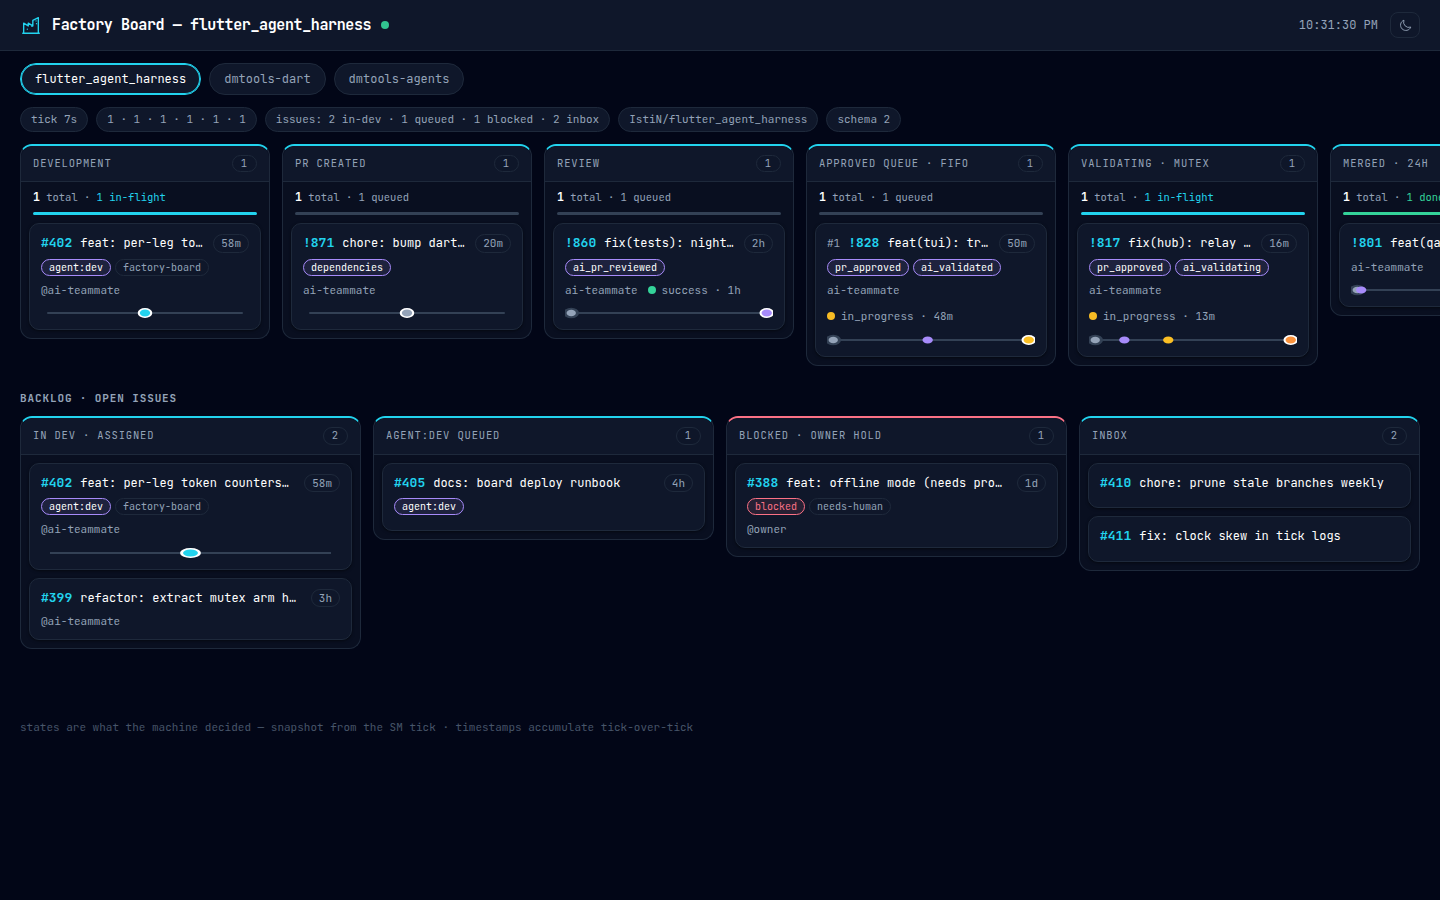
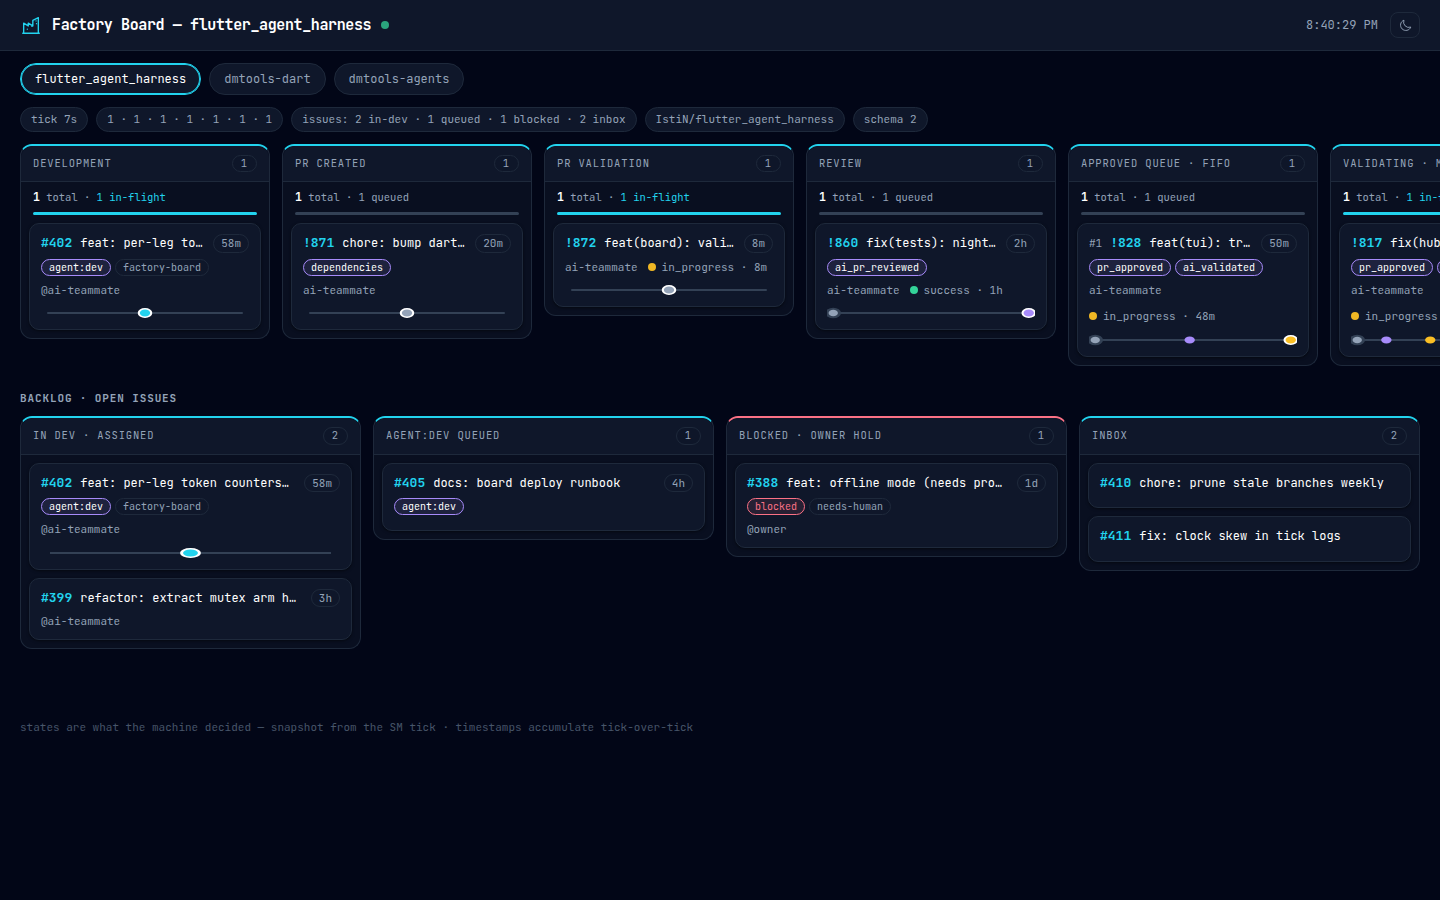
gh-716 WIP auto-save 2026-10-04T20-43-40

diff --git a/js/unit-tests/test_workingDir.js b/js/unit-tests/test_workingDir.js
@@ -14,6 +14,14 @@
 // each shard runs in its own engine).
 var commentMarkupModule = loadModule('js/common/commentMarkup.js');
 
+// Real tracker factory (provider probing is pure config/env reads) —
+// preCliDevelopmentSetup requires it for the dev-leg label assertion.
+var trackersModuleReal = loadModule(
+    'js/common/trackers.js',
+    makeRequire({ '../config.js': configModule }),
+    {}
+);
+
 /**
  * Load preCliDevelopmentSetup with controlled mocks.
  * Returns { module, calls } where calls accumulates every cli_execute_command invocation.
@@ -73,7 +81,8 @@ function loadPreCli(workingDir) {
             './fetchLinkedTestsToInput.js': { action: function() {} },
             './restoreFromReleases.js': { action: function() {} },
             './common/setupCommands.js': { runSetupCommands: function() { return { ran: 0, results: [] }; }, buildSetupWarningsMarkdown: function() { return null; } },
-            './common/baseBranchMarker.js': { writeBaseBranchMarker: function() {} }
+            './common/baseBranchMarker.js': { writeBaseBranchMarker: function() {} },
+            './common/trackers.js': trackersModuleReal
         }),
         {
             cli_execute_command: mockCli,
@@ -195,7 +204,8 @@ suite('preCliDevelopmentSetup > runCmd workingDir', function() {
                 './fetchLinkedTestsToInput.js': { action: function() {} },
                 './restoreFromReleases.js': { action: function() {} },
                 './common/setupCommands.js': { runSetupCommands: function() { return { ran: 0, results: [] }; }, buildSetupWarningsMarkdown: function() { return null; } },
-                './common/baseBranchMarker.js': { writeBaseBranchMarker: function() {} }
+                './common/baseBranchMarker.js': { writeBaseBranchMarker: function() {} },
+            './common/trackers.js': trackersModuleReal
             ,
             './common/commentMarkup.js': commentMarkupModule,
         }),
@@ -273,7 +283,8 @@ suite('preCliDevelopmentSetup > runCmd workingDir', function() {
                 './fetchLinkedTestsToInput.js': { action: function() {} },
                 './restoreFromReleases.js': { action: function() {} },
                 './common/setupCommands.js': { runSetupCommands: function() { return { ran: 0, results: [] }; }, buildSetupWarningsMarkdown: function() { return null; } },
-                './common/baseBranchMarker.js': { writeBaseBranchMarker: function() {} }
+                './common/baseBranchMarker.js': { writeBaseBranchMarker: function() {} },
+            './common/trackers.js': trackersModuleReal
             ,
             './common/commentMarkup.js': commentMarkupModule,
         }),
@@ -355,7 +366,8 @@ suite('preCliDevelopmentSetup > runCmd workingDir', function() {
                 './fetchLinkedTestsToInput.js': { action: function() {} },
                 './restoreFromReleases.js': { action: function() {} },
                 './common/setupCommands.js': { runSetupCommands: function() { return { ran: 0, results: [] }; }, buildSetupWarningsMarkdown: function() { return null; } },
-                './common/baseBranchMarker.js': { writeBaseBranchMarker: function() {} }
+                './common/baseBranchMarker.js': { writeBaseBranchMarker: function() {} },
+            './common/trackers.js': trackersModuleReal
             ,
             './common/commentMarkup.js': commentMarkupModule,
         }),

diff --git a/site/factory/app.js b/site/factory/app.js
@@ -77,7 +77,10 @@
   ];
 
   // lane → the timestamp that ENTERED it (schema 2; mirrors
-  // js/factoryState.js LANE_ENTERED_AT — kept in sync deliberately)
+  // js/factoryState.js LANE_ENTERED_AT — kept in sync deliberately).
+  // pr_validation is intentionally ABSENT there (derived from an in-flight
+  // CI run, not a label) — cardHtml ages those cards from their newest
+  // history entry, exactly like the backlog columns.
   var LANE_ENTERED_AT = {
     development: 'devStartedAt',
     pr_created: 'prCreated',
@@ -160,14 +163,16 @@
 
   // ── lane summary (v3): readable "how much is left" per lane ────────────────
   // done = merged (terminal); in-flight = actively worked right now
-  // (dev leg running, mutex validating); queued = waiting on the next
-  // machine step; blocked = owner hold — wins over everything.
+  // (dev leg running, head validation running, mutex validating); queued =
+  // waiting on the next machine step; blocked = owner hold — wins over
+  // everything.
   function laneSummary(laneId, list) {
     var s = { total: list.length, done: 0, inflight: 0, queued: 0, blocked: 0 };
     list.forEach(function (c) {
       if (hasBlocked(c)) s.blocked++;
       else if (c.mergedAt) s.done++;
-      else if (laneId === 'validating' || laneId === 'development') s.inflight++;
+      else if (laneId === 'validating' || laneId === 'development' ||
+               laneId === 'pr_validation') s.inflight++;
       else s.queued++;
     });
     return s;

diff --git a/site/factory/config.js b/site/factory/config.js
@@ -47,9 +47,12 @@ window.FACTORY_BOARD_CONFIG = {
   // Lane rendering order + titles — the PIPELINE order (schema 2). A card
   // moves left→right exactly once per stage. Schema 1 snapshots map onto it:
   // `fresh` renders as `pr_created`; development/merged_recent stay empty.
+  // pr_validation (gh-716) holds PRs whose head validation run is still
+  // in flight — the window between "PR created" and "reviewed".
   lanes: [
     { id: 'development',    title: 'Development',          icon: 'dev' },
     { id: 'pr_created',     title: 'PR created',           icon: 'pr' },
+    { id: 'pr_validation',  title: 'PR validation',        icon: 'validate' },
     { id: 'review',         title: 'Review',               icon: 'review' },
     { id: 'approved_queue', title: 'Approved queue · FIFO', icon: 'queue' },
     { id: 'validating',     title: 'Validating · mutex',   icon: 'validate' },
